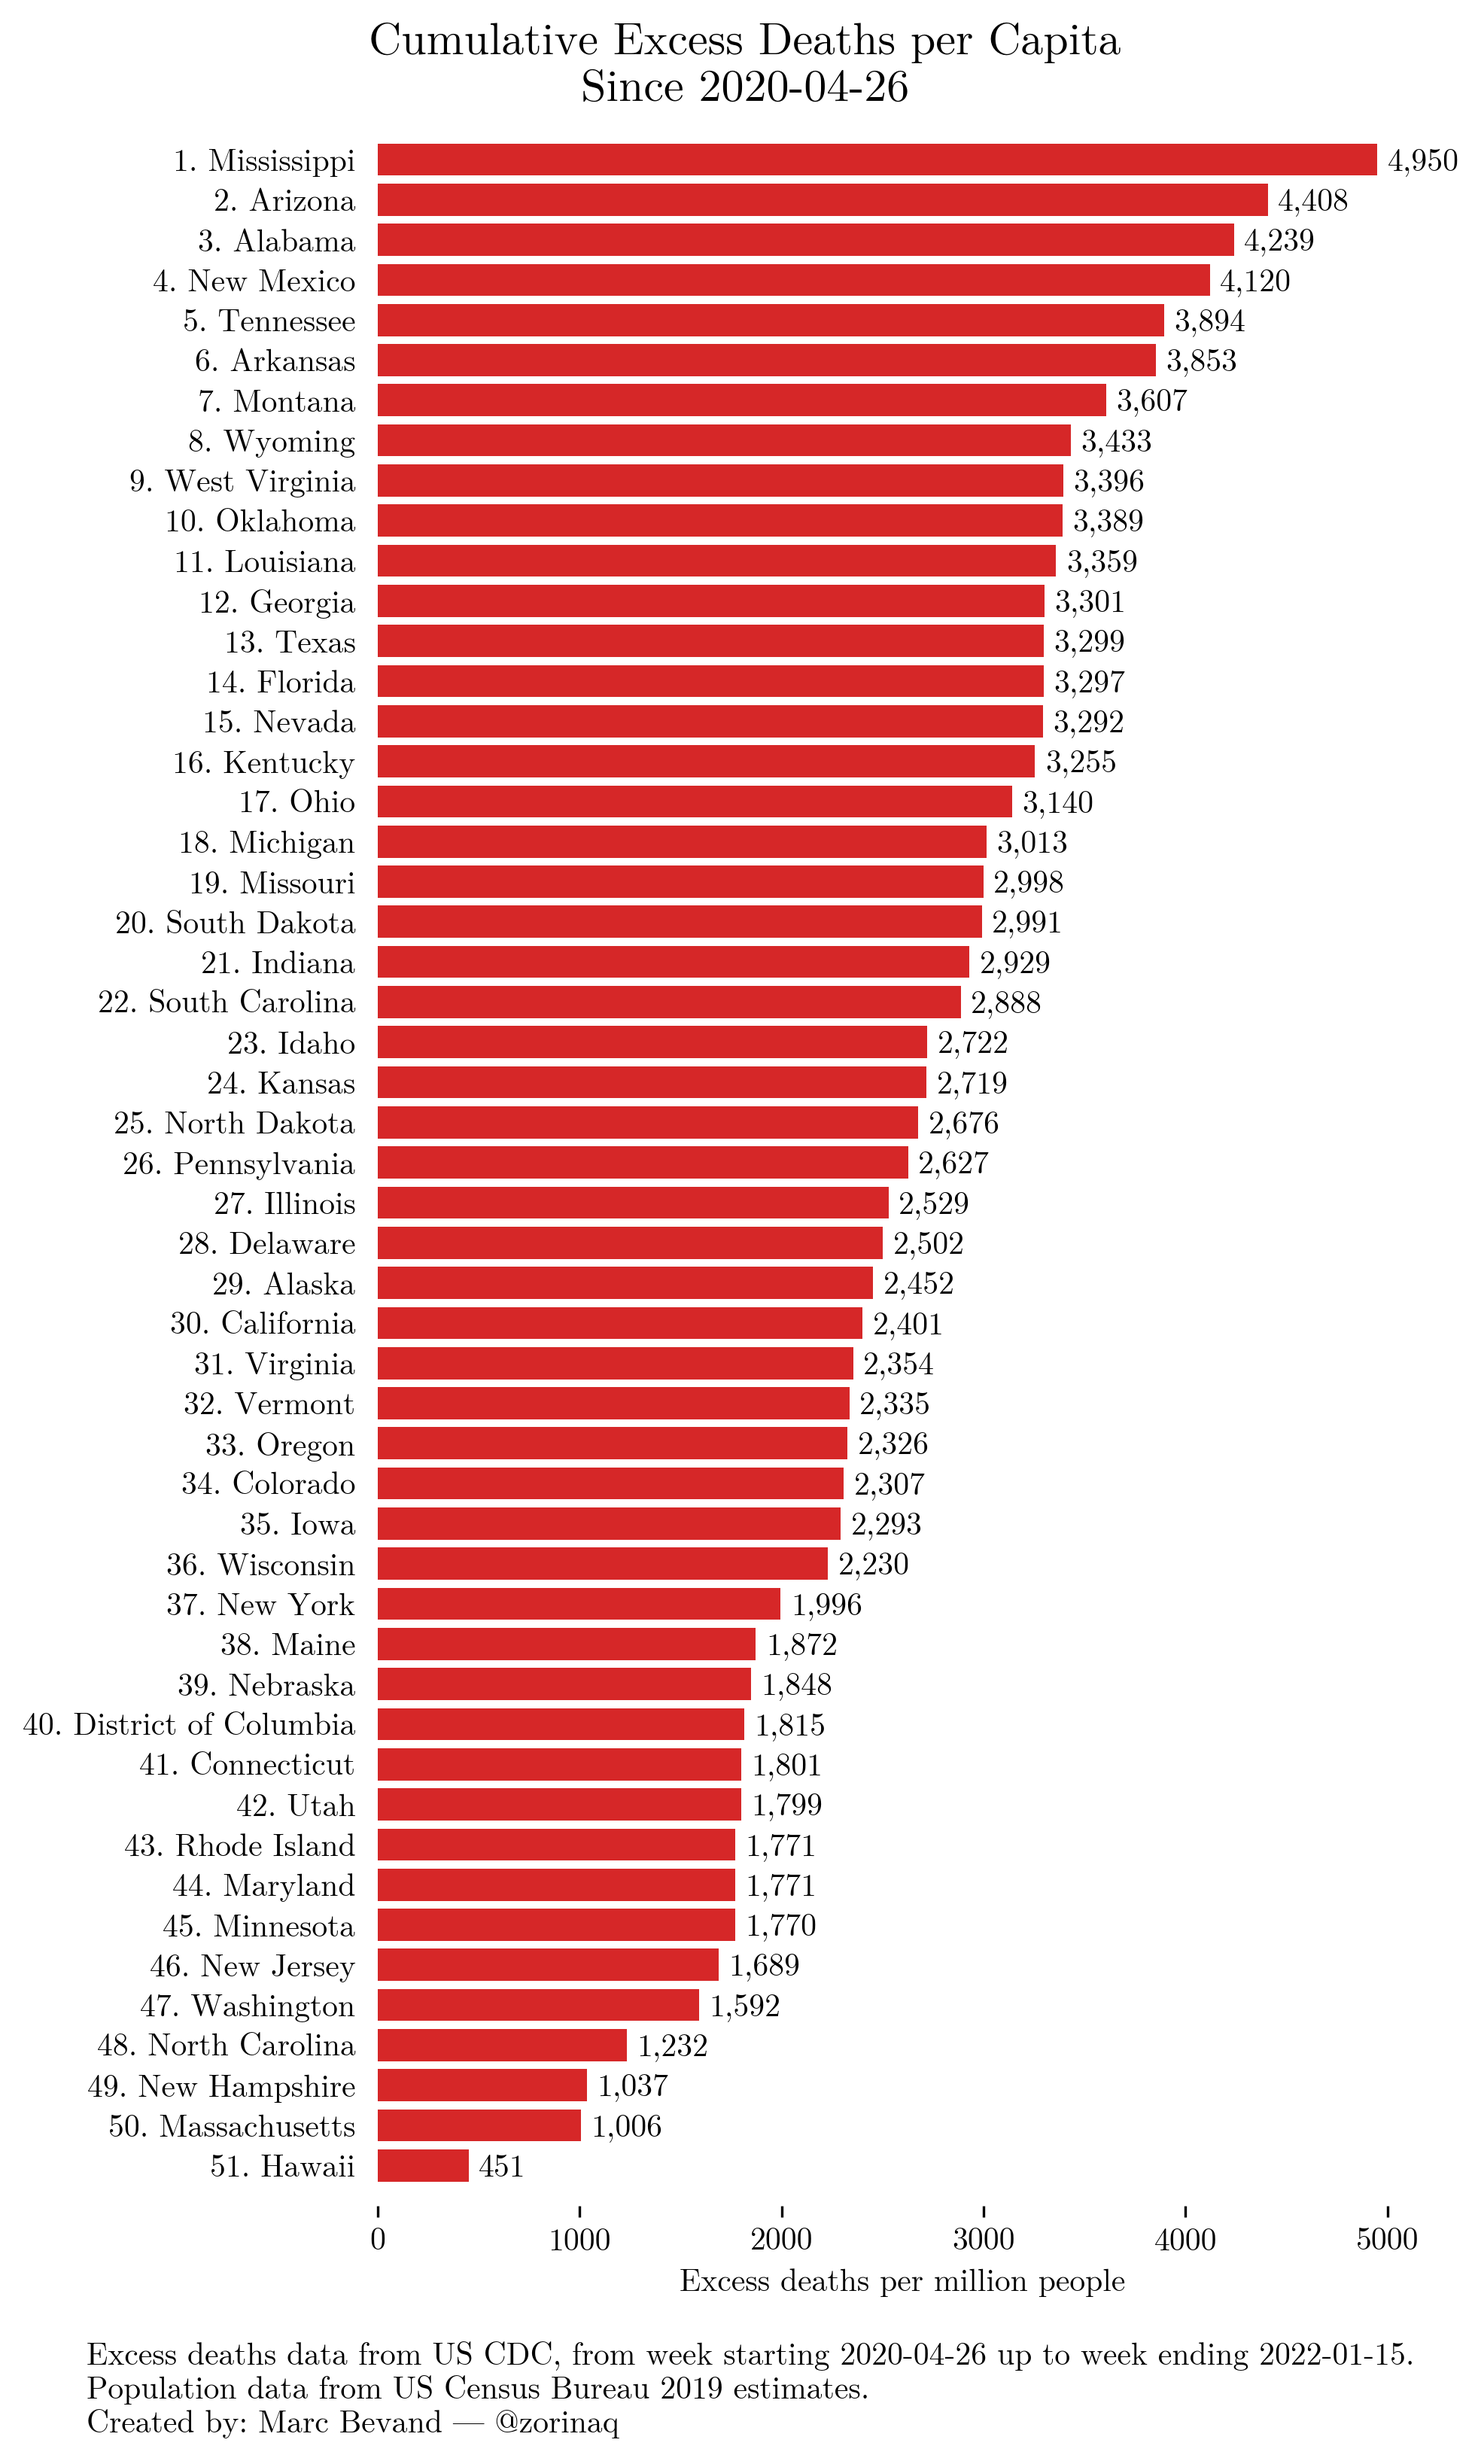
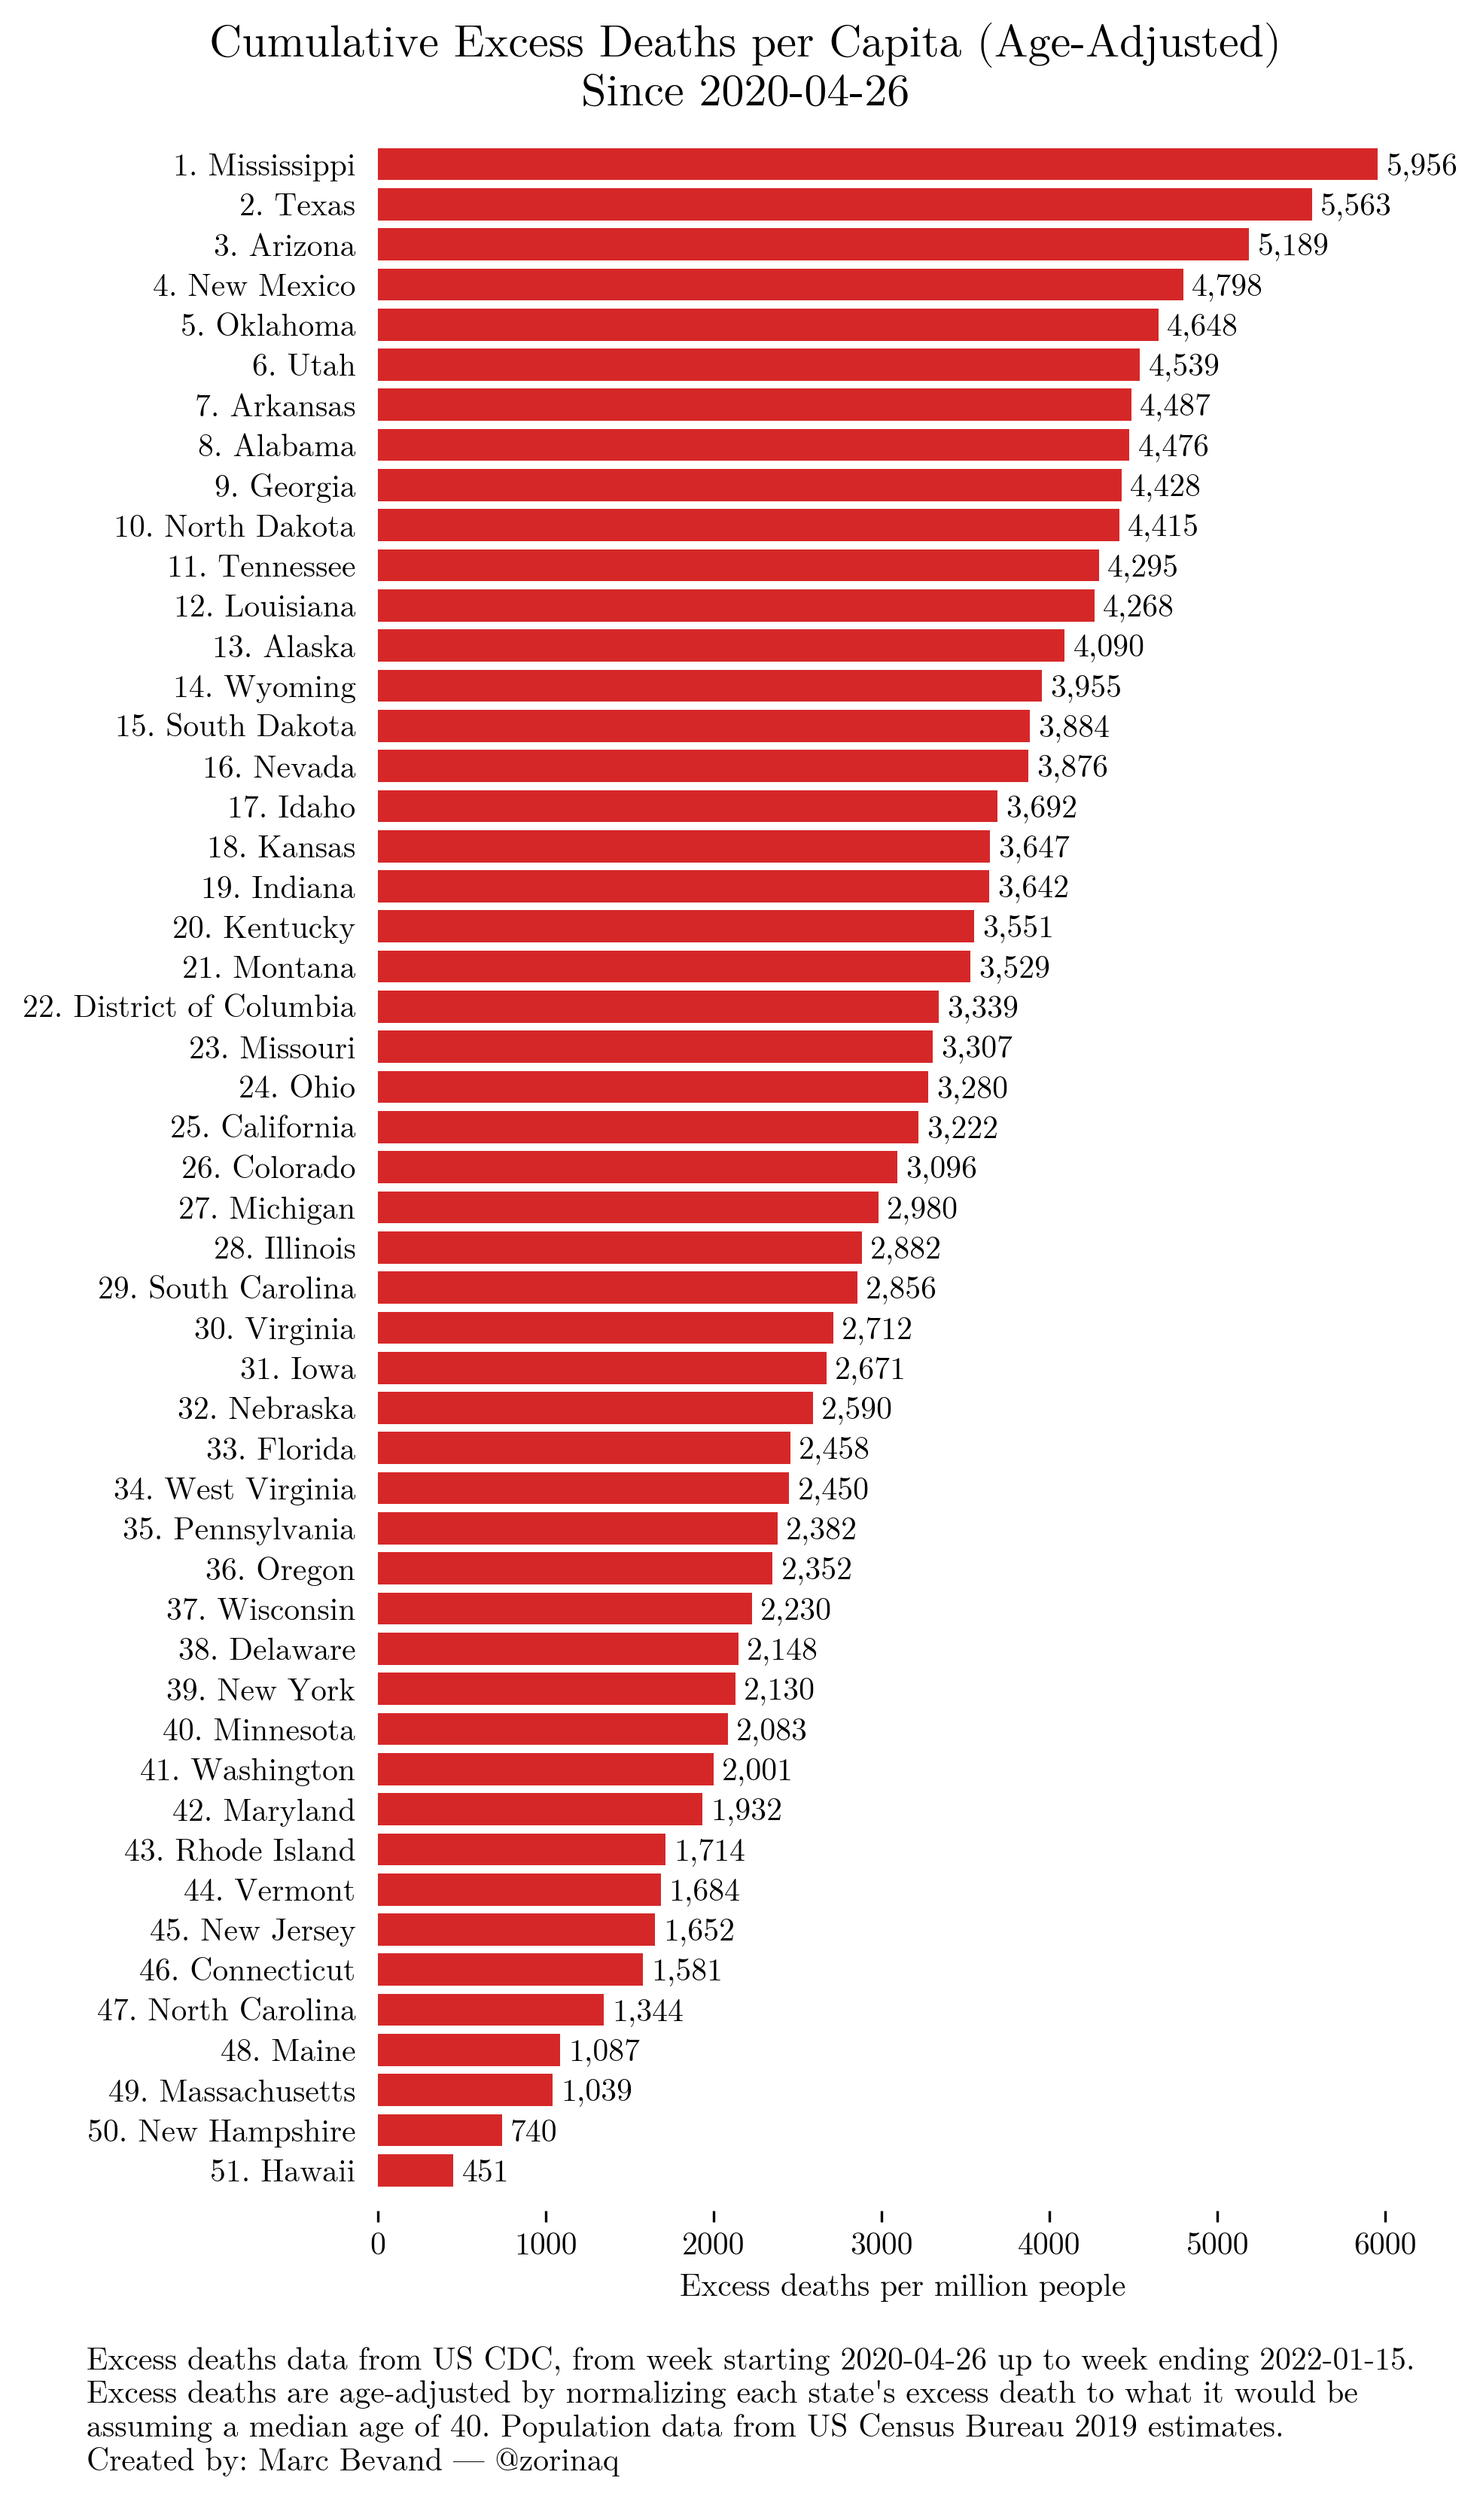
do age-adjustment

diff --git a/process.py b/process.py
@@ -73,6 +73,61 @@ pop = {
         'Wisconsin':5822434,
         'Wyoming':578759,
 }
+# U.S. Census Bureau’s median age estimates for US states and DC, as of 2019.
+# https://www.statsamerica.org/sip/rank_list.aspx?rank_label=pop46&ct=S09
+age = {
+        'Alabama': 39.5,
+        'Alaska': 35.3,
+        'Arizona': 38.5,
+        'Arkansas': 38.6,
+        'California': 37.3,
+        'Colorado': 37.3,
+        'Connecticut': 41.2,
+        'Delaware': 41.4,
+        'District of Columbia': 34.4,
+        'Florida': 42.7,
+        'Georgia': 37.3,
+        'Hawaii': 40.0,
+        'Idaho': 37.2,
+        'Illinois': 38.8,
+        'Indiana': 38.0,
+        'Iowa': 38.6,
+        'Kansas': 37.3,
+        'Kentucky': 39.2,
+        'Louisiana': 37.8,
+        'Maine': 45.0,
+        'Maryland': 39.2,
+        'Massachusetts': 39.7,
+        'Michigan': 40.1,
+        'Minnesota': 38.5,
+        'Mississippi': 38.3,
+        'Missouri': 39.1,
+        'Montana': 40.2,
+        'Nebraska': 36.9,
+        'Nevada': 38.5,
+        'New Hampshire': 43.1,
+        'New Jersey': 40.2,
+        'New Mexico': 38.6,
+        'New York': 39.4,
+        'North Carolina': 39.2,
+        'North Dakota': 35.4,
+        'Ohio': 39.6,
+        'Oklahoma': 37.1,
+        'Oregon': 39.9,
+        'Pennsylvania': 40.9,
+        'Rhode Island': 40.3,
+        'South Carolina': 40.1,
+        'South Dakota': 37.6,
+        'Tennessee': 39.1,
+        'Texas': 35.2,
+        'Utah': 31.5,
+        'Vermont': 43.0,
+        'Virginia': 38.7,
+        'Washington': 37.9,
+        'West Virginia': 43.0,
+        'Wisconsin': 40.0,
+        'Wyoming': 38.7,
+}
 
 def excess_for(df, state):
     def _excess_for(df, state):
@@ -105,6 +160,12 @@ def excess_for(df, state):
     ret = _excess_for(df, 'New York City') if state == 'New York' else 0
     return ret + _excess_for(df, state)
 
+def age_adjust(state):
+    # The IFR of COVID-19 increases approximately 1.115-fold with each year of increase
+    # in age
+    ifr_inc = 1.115
+    return ifr_inc**(40 - age[state])
+
 def chart(res, last):
     # "Tableau 20" colors
     tableau20 = [(x[0] / 255., x[1] / 255., x[2] / 255.) for x in
@@ -127,11 +188,14 @@ def chart(res, last):
     ax.spines['right'].set_visible(False)
     ax.tick_params(axis='y', which='both', left=False)
     ax.set_xlabel('Excess deaths per million people')
-    ax.set_title(f'Cumulative Excess Deaths per Capita\nSince {start_date}',
+    ax.set_title(f'Cumulative Excess Deaths per Capita (Age-Adjusted)\nSince {start_date}',
             fontsize='x-large', x=.35)
     fig.text(-.09, .06,
             f'Excess deaths data from US CDC, from week starting {start_date} '
             f'up to week ending {last}.\n'
+            'Excess deaths are age-adjusted by normalizing each state\'s excess '
+            'death to what it would be\n'
+            'assuming a median age of 40. '
             'Population data from US Census Bureau 2019 estimates.\n'
             'Created by: Marc Bevand — @zorinaq',
             va='top', ha='left',
@@ -157,7 +221,7 @@ def main():
     res = []
     for st in pop.keys():
         # calculate cumulative excess deaths per million capita
-        res.append((st, excess_for(df, st) / pop[st] * 1e6))
+        res.append((st, excess_for(df, st) / pop[st] * 1e6 * age_adjust(st)))
     res = sorted(res, key=lambda x: x[1])
     for x in res:
         print(f'{x[1]:.0f} {x[0]}')

diff --git a/README.md b/README.md
@@ -1,4 +1,4 @@
-*Updated: 31 Jan 2022*
+*Updated: 01 Feb 2022*
 
 Author: Marc Bevand
 
@@ -33,4 +33,19 @@ deaths and the average expected number of deaths from the US CDC (column
 We add up these differences to calculate the final cumulative excess deaths
 per capita.
 
-States population data is from the [US Census Bureau 2019 estimates](https://www2.census.gov/programs-surveys/popest/datasets/2010-2019/state/detail/SCPRC-EST2019-18+POP-RES.csv).
+Then we perform age-adjustment. First we determine by how much the IFR of COVID-19
+increases with each year of age. As per [O’Driscoll et al.: Age-specific mortality and immunity patterns of SARS-CoV-2](https://www.nature.com/articles/s41586-020-2918-0), in [Supplementary information](https://static-content.springer.com/esm/art%3A10.1038%2Fs41586-020-2918-0/MediaObjects/41586_2020_2918_MOESM1_ESM.pdf) (table S3):
+
+* IFR for ages 30-34 = 0.024%
+* IFR for ages 75-79 = 3.203%
+
+On this 45-year range, the IFR increases by: (3.203 / 0.024)^(1 / 45) =
+1.115-fold with each year of increase. We term this factor **ifr_inc**.
+
+Secondly, each state is adjusted by normalizing its
+excess deaths to what it would be if the median age was 40 (an arbitrary
+value). We do this by mutiplying excess death by:
+
+ifr_inc ^ (40 - state_median_age)
+
+States population and median age data is from the [US Census Bureau 2019 estimates](https://www2.census.gov/programs-surveys/popest/datasets/2010-2019/state/detail/SCPRC-EST2019-18+POP-RES.csv).
